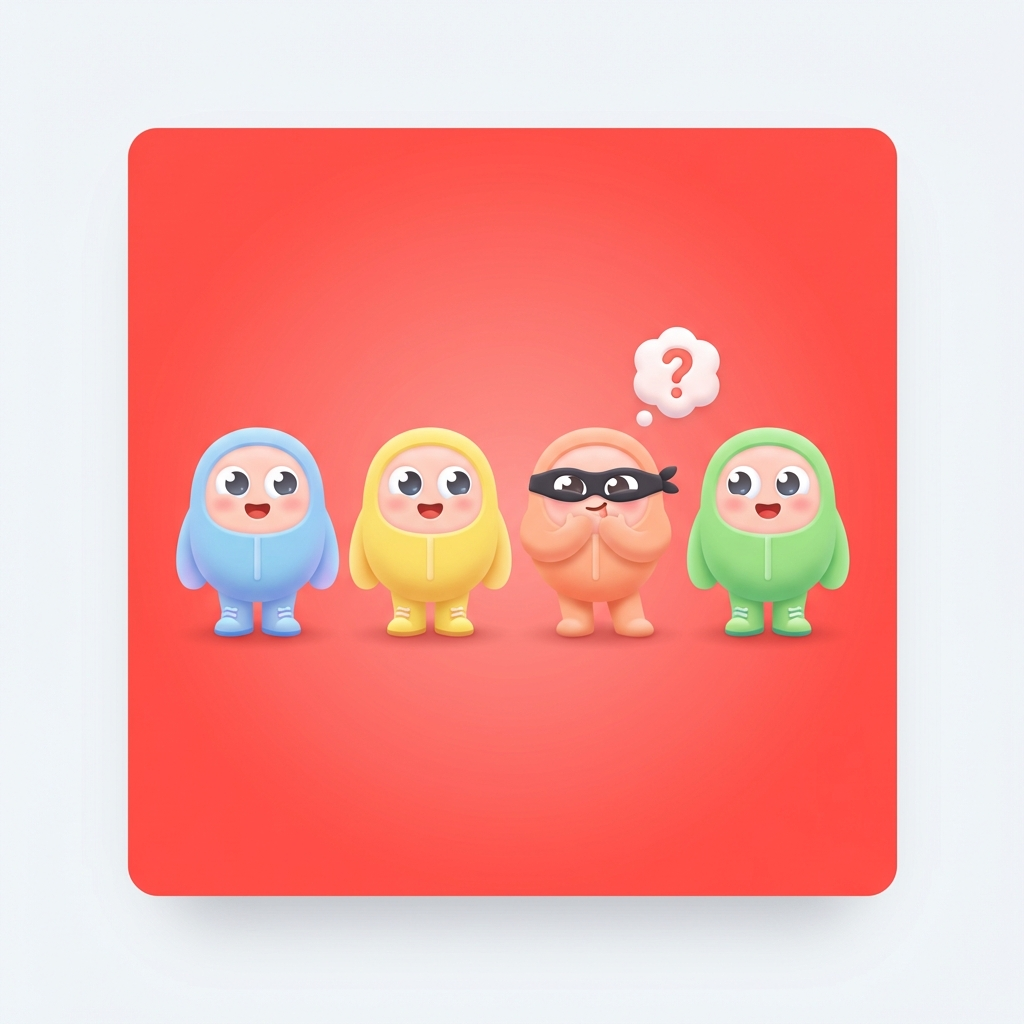
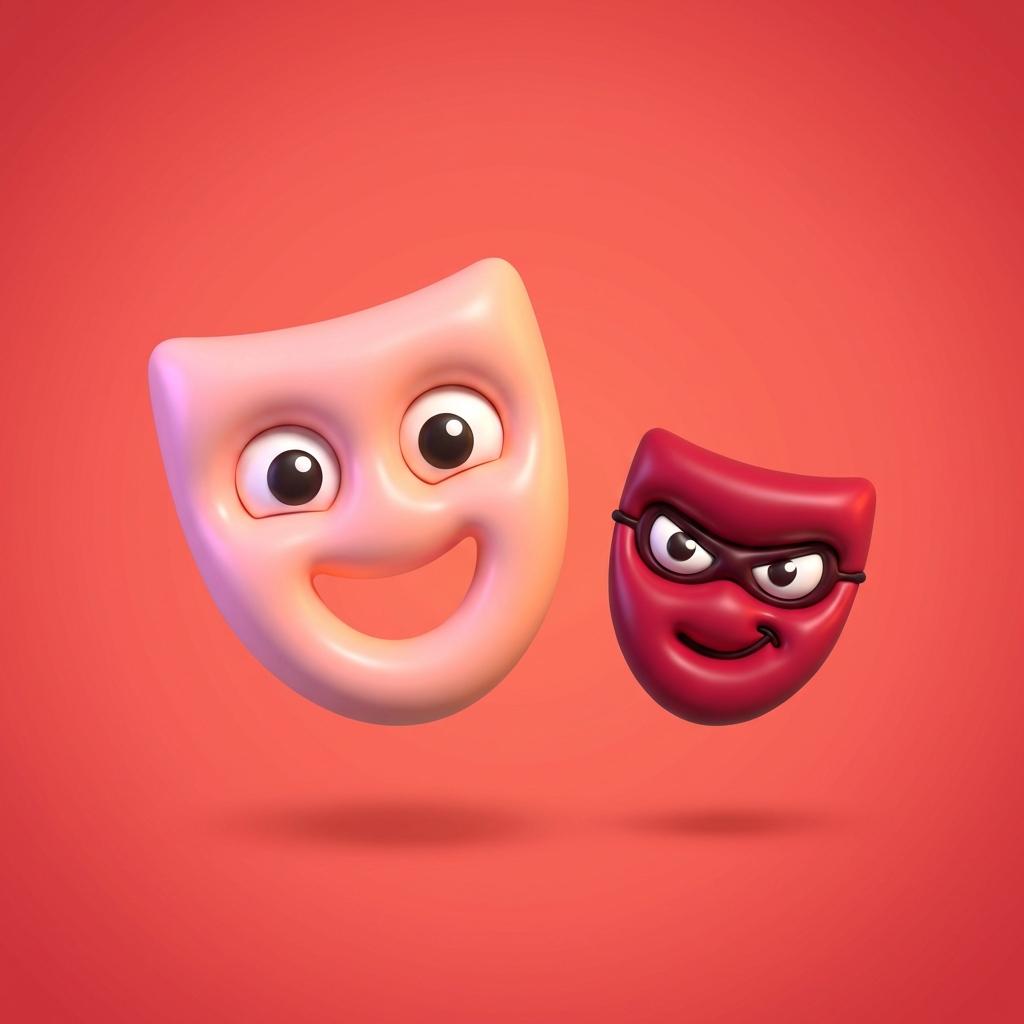
feat: regenerate mode illustrations in iconic style
Replaced the three mode card illustrations with a tighter, more iconic
look. Subjects changed from "4 chunky Duolingo-style characters" to
single-subject 3D-rendered scenes:

- Classic: white theatrical comedy mask + smaller crimson impostor mask
  with black eye-band, coral red (#ef4444) radial gradient bg
- Pairs Question: large glossy blue speech bubble with 4 swirling white
  question marks orbiting around it, sky blue (#3b82f6) radial bg
- Kameleon: cute green chameleon with curly tail in front of a 3x3 grid
  of fully saturated bright colored squares (cherry red, sunny yellow,
  leaf green, sky blue, lilac purple, orange), emerald (#10b981) bg

Same filenames, same aspect ratio (1024x1024 square), same file sizes
(~460 KB each), same PWA precache entries — SW will swap content
transparently on next open. Zero code changes beyond the three prompt
strings in scripts/generate-images.js (lines 48-88). Menu.jsx,
MODE_REGISTRY, vite.config.js, theme.js, content packs, labels, mode
components, scoring — all untouched.

Generated via gemini-3-pro-image-preview (Nano Banana Pro 2).

Verified: all 3 PNGs load at Menu (375x812), naturalWidth 1024, no
broken images, zero console errors.

diff --git a/scripts/generate-images.js b/scripts/generate-images.js
@@ -40,52 +40,46 @@ const MODEL_CANDIDATES = [
   'gemini-2.5-flash-image',        // Nano Banana 1
 ]
 
-// Duolingo-style prompts: bright saturated backgrounds, chunky cartoon characters
-// with big friendly eyes, soft rounded shapes, kid-friendly, playful.
+// Iconic 3D-rendered mode card illustrations. Single-subject compositions,
+// glossy soft-plastic look, centered, square 1:1. Backgrounds use the exact
+// mode accent hex values locked in src/styles/theme.js (red / blue / emerald).
 const IMAGES = [
   {
     filename: 'mode-classic.png',
     prompt:
-      'Cute Duolingo-style kid-friendly cartoon mascot illustration for a party game card. ' +
-      'Bright coral red background (#ef4444) with a soft radial gradient. ' +
-      'Composition: four chunky round cartoon characters with huge friendly round eyes and soft rubbery bodies, ' +
-      'three identical cheerful civilian characters in pastel outfits standing in a row, ' +
-      'and one adorable impostor character in the middle wearing a tiny black eye mask and giggling mischievously, ' +
-      'with a floating cartoon question mark bubble above its head. ' +
-      'Round chunky proportions, soft ambient shadows, clean flat shading with pastel highlights, ' +
-      'modern 3D-rendered soft plastic look like Duolingo mascots. ' +
-      'Playful, warm, inviting, NOT scary. No text, no letters. ' +
+      'Iconic 3D-rendered cartoon illustration for a party game card. ' +
+      'Bright coral red background, exact hex #ef4444, with a soft radial gradient from lighter red at the center to deeper red at the edges. ' +
+      'Composition: a single large theatrical comedy mask (the happy smiling greek-tragedy-style mask) rendered in glossy 3D with smooth rounded edges, soft plastic shading, and cheerful friendly big cartoon eyes, sitting slightly left of center and slightly tilted. ' +
+      'Beside it on the right, a second smaller cartoon "imposter" mask in deep crimson red with mischievous slanted eyes, a tiny black eye-band, and a sly devil smirk — clearly the odd one out. ' +
+      'Round chunky proportions, soft ambient shadows beneath both masks, subtle pastel highlights, modern 3D soft-plastic look like Duolingo or Apple mascots. ' +
+      'Playful, warm, inviting, NOT scary. Absolutely no text, no letters, no numbers, no symbols anywhere. ' +
       'Square 1:1 aspect ratio, designed for a mobile app card. ' +
-      'Centered composition with generous padding around the characters.',
+      'Centered composition with generous padding around the masks so they do not touch the edges.',
   },
   {
     filename: 'mode-pairs-question.png',
     prompt:
-      'Cute Duolingo-style kid-friendly cartoon mascot illustration for a party game card. ' +
-      'Bright sky blue background (#3b82f6) with a soft radial gradient. ' +
-      'Composition: four chunky cartoon speech bubble characters with huge friendly round eyes and small arms, ' +
-      'arranged in a 2x2 grid, three identical happy smiling bubbles in a row ' +
-      'and one bubble in the corner with a confused puzzled expression, tilted head, and a tiny squiggle over it. ' +
-      'Round chunky proportions, soft ambient shadows, pastel highlights, ' +
-      'modern 3D-rendered soft plastic look like Duolingo mascots. ' +
-      'Playful, warm, inviting, fun. No text, no letters inside the bubbles. ' +
+      'Iconic 3D-rendered cartoon illustration for a party game card. ' +
+      'Bright sky blue background, exact hex #3b82f6, with a soft radial gradient from lighter blue at the center to deeper blue at the edges. ' +
+      'Composition: one large chunky 3D cartoon speech bubble in glossy sky blue, centered, with smooth rounded edges and subtle pastel highlights. The speech bubble is EMPTY inside, plain surface, no text, no letters. ' +
+      'Around the bubble, four or five floating cartoon question marks of varying sizes in white and pale blue, gently swirling around it as if orbiting — some bigger, some smaller, at different tilt angles. The question marks are simple clean shapes, NOT made of letters. ' +
+      'Round chunky proportions, soft ambient shadows, pastel highlights, modern 3D soft-plastic look like Duolingo mascots. ' +
+      'Playful, warm, inviting, curious. Absolutely no text, no letters, no numbers inside the bubble or anywhere else. ' +
       'Square 1:1 aspect ratio, designed for a mobile app card. ' +
-      'Centered composition with generous padding around the characters.',
+      'Centered composition with generous padding around the bubble.',
   },
   {
     filename: 'mode-kameleon.png',
     prompt:
-      'Cute Duolingo-style kid-friendly cartoon mascot illustration for a party game card. ' +
-      'Bright emerald green background (#10b981) with a soft radial gradient. ' +
-      'Composition: one adorable chunky cartoon chameleon mascot character with enormous friendly round eyes, ' +
-      'a curly tail, tiny feet, and a small confused-curious smile, ' +
-      'sitting on top of a 4x4 grid of soft rounded colorful pastel tiles, ' +
-      'one tile glowing brighter as if it holds a secret. ' +
-      'Round chunky proportions, soft ambient shadows, pastel highlights, ' +
-      'modern 3D-rendered soft plastic look like Duolingo mascots (think the Duo owl). ' +
-      'Playful, warm, inviting, adorable. No text, no letters on the tiles. ' +
+      'Iconic 3D-rendered cartoon illustration for a party game card. ' +
+      'Bright emerald green background, exact hex #10b981, with a soft radial gradient from lighter green at the center to deeper green at the edges. ' +
+      'Composition: one adorable 3D cartoon chameleon mascot in vivid leaf-green with enormous friendly round cartoon eyes, a curly spiral tail, tiny stubby feet, and a small confused-curious closed-mouth smile. ' +
+      'The chameleon sits centered, its curly tail coiling playfully around a small 3x3 grid of chunky saturated cartoon squares behind and beneath it. The grid squares are bright saturated cartoon colors: cherry red, sunny yellow, leaf green, sky blue, lilac purple, and orange — NOT pastel, NOT washed out, fully saturated. The squares have soft rounded corners and subtle glossy highlights. ' +
+      'One square just behind the chameleon glows slightly brighter as if it holds a secret. ' +
+      'Round chunky proportions, soft ambient shadows, subtle pastel highlights on the chameleon body, modern 3D soft-plastic look like Duolingo mascots (think the Duo owl style). ' +
+      'Playful, warm, inviting, adorable. Absolutely no text, no letters, no numbers on the tiles or anywhere. ' +
       'Square 1:1 aspect ratio, designed for a mobile app card. ' +
-      'Centered composition with generous padding around the chameleon.',
+      'Centered composition with generous padding around the chameleon and grid.',
   },
 ]
 
